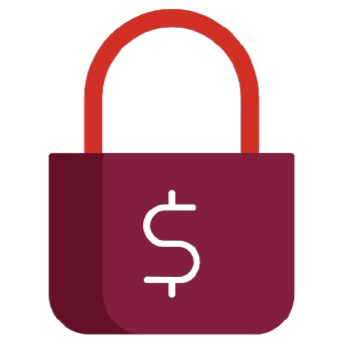
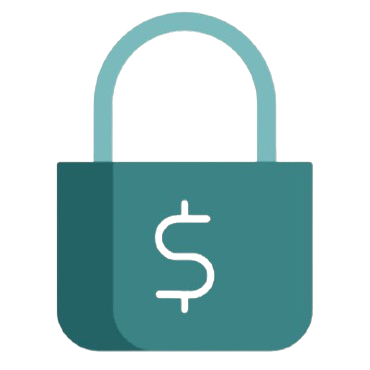
Frontend - Minor UI Changes

diff --git a/thredox-frontend/src/components/Icons/icons.tsx b/thredox-frontend/src/components/Icons/icons.tsx
@@ -11,7 +11,7 @@ const ThemeIcon = ({ size = 25, width, height, children, ...props }: iSVG & { ch
         width={width ?? size}
         {...props}
     >
-        <g fill="#900C3F"> {children} </g>
+        <g fill="#078586"> {children} </g>
     </svg>
 );
 
@@ -37,7 +37,7 @@ export const StartIcon = forwardRef<HTMLElement, { id: string }>((props, ref) =>
         aria-label="Start Icon"
         src="https://cdn.lordicon.com/ekuoyiqn.json"
         trigger="loop-on-hover"
-        colors="primary:#900C3F,secondary:#900C3F,tertiary:#ebe6ef,quaternary:#900C3F"
+        colors="primary:#078586,secondary:#078586,tertiary:#ebe6ef,quaternary:#078586"
     />
 ));
 
@@ -47,10 +47,10 @@ export const BrandIcon = forwardRef<HTMLElement, { id: string }>((props, ref) =>
         ref={ref}
         role="img"
         aria-label="Brand Icon"
-         src="https://cdn.lordicon.com/drdlomqk.json"
+        src="https://cdn.lordicon.com/drdlomqk.json"
         trigger="loop-on-hover"
         state="loop-spin"
-        colors="primary:#900c3f,secondary:#e50914,tertiary:#ffffff"
+        colors="primary:#078586,secondary:#66bcbd,tertiary:#ffffff"
     />
 ));
 
@@ -60,7 +60,7 @@ export const LinkedInIcon: FC = () => (
         aria-label="LinkedIn Icon"
         src="https://cdn.lordicon.com/fgctxlnd.json"
         trigger="loop-on-hover"
-        colors="primary:#900c3f,secondary:#ebe6ef"
+        colors="primary:#078586,secondary:#ebe6ef"
     />
 );
 
@@ -70,7 +70,7 @@ export const GithubIcon: FC = () => (
         aria-label="Github Icon"
         src="https://cdn.lordicon.com/ioihllwu.json"
         trigger="loop-on-hover"
-        colors="primary:#ffffff,secondary:#900c3f"
+        colors="primary:#ffffff,secondary:#078586"
     />
 );
 
@@ -80,7 +80,7 @@ export const UserIcon: FC = () => (
         aria-label="User Icon"
         src="https://cdn.lordicon.com/hroklero.json"
         trigger="loop-on-hover"
-        colors="primary:#900c3f,secondary:#900c3f"
+        colors="primary:#078586,secondary:#078586"
     />
 );
 
@@ -103,7 +103,7 @@ export const LoadingIcon: FC = () => (
         trigger="loop"
         stroke="bold"
         state="loop-cycle"
-        colors="primary:#900c3f,secondary:#e50914"
+        colors="primary:#078586,secondary:#66bcbd"
     />
 );
 
@@ -113,7 +113,7 @@ export const MailIcon: FC = () => (
         aria-label="Mail Icon"
         src="https://cdn.lordicon.com/dpggoewm.json"
         trigger="hover"
-        colors="primary:#5c0a33,secondary:#900c3f,tertiary:#c7166f"
+        colors="primary:#66bcbd,secondary:#078586,tertiary:#66bcbd"
     />
 );
 
@@ -124,7 +124,7 @@ export const IntroIcon: FC = () => (
         src="https://cdn.lordicon.com/mhnfcfpf.json"
         trigger="in"
         state="in-reveal"
-        colors="primary:#fad1e6,secondary:#900c3f,tertiary:#c7c116,quaternary:#3080e8"
+        colors="primary:#fad1e6,secondary:#078586,tertiary:#c7c116,quaternary:#3080e8"
         style={{ width: "350px", height: "350px" }}
     />
 );

diff --git a/thredox-frontend/src/pages/Landing.tsx b/thredox-frontend/src/pages/Landing.tsx
@@ -1,7 +1,10 @@
 import { hoverOff, hoverOn } from "@/components/Icons/iconLinks";
 import { IntroIcon, StartIcon } from "@/components/Icons/icons";
+import { subtitle, title } from "@/components/primitives";
+import { landingInfo } from "@/config/info";
 import AppLayout from "@/layouts/AppLayout";
 import { Button } from "@heroui/button";
+import { Card, CardBody, CardHeader } from "@heroui/react";
 import { useRef, useState } from "react";
 import { useNavigate } from "react-router-dom";
 
@@ -20,12 +23,21 @@ export default function Landing() {
 
     const icon = () => (<div className="flex items-center justify-center"> <IntroIcon /> </div>);
 
+    const FeatureCard = ({ title, description }: { title: string; description: string }) => (
+        <Card shadow="sm" radius="lg" fullWidth={true}>
+            <CardHeader className="text-lg font-semibold text-secondary"> {title} </CardHeader>
+            <CardBody > {description} </CardBody>
+        </Card>
+    );
+
     const landingPageData = () => (
-        <>
-            <div className="flex items-center justify-center flex-col">
-                <p className="text-center text-lg mb-6">
-                    Seamlessly capture and store incoming G-Suite emails with secure OAuth integration—no passwords needed. Automatically archive email content, metadata, and maintain conversation threading in PostgreSQL. Attachments are preserved and organized in Google Drive, ensuring compliance, data integrity, and smooth workflow integration.
-                </p>
+        <div className="max-w-7xl mx-auto px-4 sm:px-6 lg:px-8">
+            <div className="text-center mb-8">
+                <span className={title({ color: "primary" })}> Secure Email Archives for G-Suite </span>
+                <div className={subtitle({ class: "mt-4 mb-4" })}>
+                    Seamlessly capture and store incoming G-Suite emails with secure OAuth integration — no passwords needed.
+                    <br/> Your email archive, organized and compliant.
+                </div>
                 <Button
                     color="secondary"
                     radius="full"
@@ -34,12 +46,14 @@ export default function Landing() {
                     onPress={handleNavigate}
                     onMouseEnter={() => hoverOn("start-icon")}
                     onMouseLeave={() => hoverOff("start-icon")}
-                    className="shadow-lg transform transition-all duration-300 hover:scale-105"
                 >
                     Get Started
                 </Button>
             </div>
-        </>
+            <div className="grid md:grid-cols-2 lg:grid-cols-3 gap-4 mb-16">
+                {landingInfo.map(({ title, description }, index) => <FeatureCard key={index} title={title} description={description} />)}
+            </div>
+        </div>
     );
 
     return <AppLayout> {showIntroIcon ? icon() : landingPageData()} </AppLayout>;

diff --git a/thredox-frontend/src/config/info.ts b/thredox-frontend/src/config/info.ts
@@ -1,0 +1,26 @@
+export const landingInfo = [
+    {
+        title: "Secure OAuth Integration",
+        description: "Connect securely with Gmail API using OAuth authentication. No password storage required.",
+    },
+    {
+        title: "Real-time Archiving",
+        description: "Automatically capture and store emails within 5 minutes of receipt in PostgreSQL.",
+    },
+    {
+        title: "Smart Attachment Handling",
+        description: "Seamlessly store attachments in Google Drive with organized linking and metadata.",
+    },
+    {
+        title: "Complete Metadata Capture",
+        description: "Preserve all email metadata including sender, recipients, timestamps, and headers.",
+    },
+    {
+        title: "Thread Management",
+        description: "Maintain email conversation threading for better context and organization.",
+    },
+    {
+        title: "Duplicate Prevention",
+        description: "Smart detection system prevents duplicate email storage automatically.",
+    },
+];

diff --git a/thredox-frontend/src/components/Card/AdminCard.tsx b/thredox-frontend/src/components/Card/AdminCard.tsx
@@ -13,9 +13,9 @@ export const AdminCard = () => {
 
     const infoText: Record<Exclude<iHover, null>, string> = {
         default: greeting,
-        email: "Contact me through Mail!",
-        github: "Check out my GitHub!",
-        linkedin: "Check out my LinkedIn!"
+        email: "Contact me through Mail !",
+        github: "Check out my GitHub !",
+        linkedin: "Check out my LinkedIn !"
     };
 
     const handleHover = (key: iHover) => () => setHovered(key);
@@ -27,7 +27,7 @@ export const AdminCard = () => {
     };
 
     return (
-        <Card isFooterBlurred isBlurred>
+        <Card isFooterBlurred isBlurred shadow="none">
             <CardHeader className="flex gap-3"> {infoText[hovered ?? "default"]} </CardHeader>
             <CardBody> <Image src={Photo} alt="Image" height={350} radius="sm" /> </CardBody>
             <CardFooter className="justify-between border-white/20 border-1 overflow-hidden py-1 absolute rounded-small bottom-3 w-[calc(100%_-_24px)] shadow-small ml-3 z-10">

diff --git a/thredox-frontend/src/pages/Home.tsx b/thredox-frontend/src/pages/Home.tsx
@@ -1,6 +1,7 @@
 import { getGreetingAndDate } from "@/utils/utils";
 import AppLayout from "@/layouts/AppLayout";
 import { subtitle, title } from "@/components/primitives";
+import { Divider } from "@heroui/react";
 
 export default function Home() {
     const { greeting, currentDate } = getGreetingAndDate();
@@ -8,9 +9,9 @@ export default function Home() {
         <AppLayout>
             <div className="inline-block max-w-lg text-center justify-center">
                 <span className={title()}> {greeting} </span>
-                <span className={title({ color: "primary" })}> Danny </span>
             </div>
             <span className={subtitle()}> {currentDate} </span>
+            <br /> <Divider /> <br />
         </AppLayout>
     );
 }

diff --git a/thredox-frontend/src/layouts/AppLayout.tsx b/thredox-frontend/src/layouts/AppLayout.tsx
@@ -15,7 +15,7 @@ export default function AppLayout({ children }: { children: ReactNode }) {
             <NavigationBar />
             <main className="container mx-auto max-w-7xl px-6 flex-grow pt-4"> {children} </main>
             <footer className="w-full flex items-center justify-center py-3">
-                {isPath ? <p className="text-center text-md text-[#e40c61] font-bold"> {notice} </p> : (
+                {isPath ? <p className="text-center text-md text-[#078586] font-bold"> {notice} </p> : (
                     <div className="flex gap-2">
                         <Link isExternal href={github}> <GithubIcon /> </Link>
                         <Link isExternal href={linkedin}> <LinkedInIcon /> </Link>

diff --git a/thredox-frontend/src/styles/globals.css b/thredox-frontend/src/styles/globals.css
@@ -12,7 +12,7 @@
 }
 
 ::-webkit-scrollbar-thumb {
-    background-color: #900C3F;
+    background-color: #078586;
     border-radius: 4px;
     border: 2px solid transparent;
     background-clip: content-box;
@@ -20,6 +20,6 @@
 
 * {
     scrollbar-width: thin;
-    scrollbar-color: #900C3F transparent;
+    scrollbar-color: #078586 transparent;
 }
 /* SCROLL BAR */

diff --git a/thredox-frontend/src/components/primitives.ts b/thredox-frontend/src/components/primitives.ts
@@ -10,7 +10,7 @@ export const title = tv({
             cyan: "from-[#00b7fa] to-[#01cfea]",
             green: "from-[#6FEE8D] to-[#17c964]",
             pink: "from-[#FF72E1] to-[#F54C7A]",
-            primary: "from-[#900C3F] to-[#E50914]"
+            primary: "from-[#078586] to-[#66bcbd]"
         },
         size: {
             sm: "text-3xl lg:text-4xl",

diff --git a/thredox-frontend/src/config/site.ts b/thredox-frontend/src/config/site.ts
@@ -1,6 +1,5 @@
 export type SiteConfig = typeof siteConfig;
 
-
 export const siteConfig = {
     creator: 'Daniel\u00A0D',
     email: "daniel.elohi326@gmail.com",
